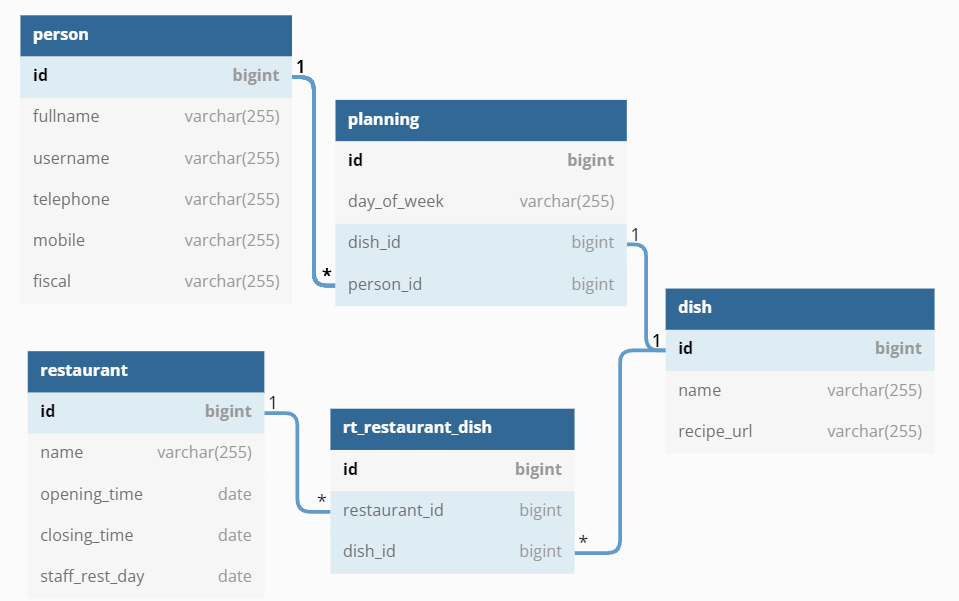
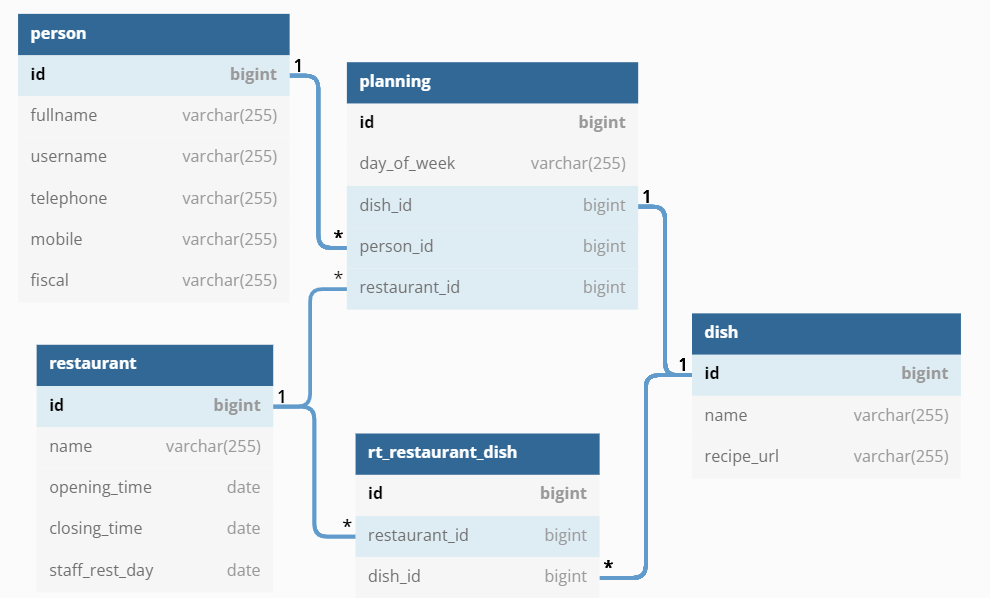
update of README.md

diff --git a/README.md b/README.md
@@ -17,5 +17,76 @@ http://localhost:8088/
 **Note:** It will be shared a dump of the database on mysql folder, on that dump you can create a dump of the database if you want to, and it will be loaded when the DB is loaded.
 
 ## Database schema plan
+Following relationships were implemented:
+* Person - one to many - Planning
+* Restaurant - one to many - Planning
+* Planning - one to one - Dish
+* Restaurant - many to many - Dish
 
-![img_2.png](database_schema.png)
+![img.png](database_schema.png)
+
+## Architecture
+It was organized a service-oriented architecture as can be seen below
+![img.png](img.png)
+
+## REST APIs
+* Dish Entity
+
+`add a Dish entity to repository`
+http://localhost:8080/api/v1/dishes/add (DishDTO body) 
+
+`remove a Dish entity from repository`
+http://localhost:8080/api/v1/dishes/remove/{dishId}
+
+`update a Dish entity from repository`
+http://localhost:8080/api/v1/dishes/update/{dishId} (DishDTO body)
+
+* Person Entity
+
+`add a Person entity to repository`
+http://localhost:8080/api/v1/persons/add (PersonDTO body)
+
+`remove a Person entity from repository`
+http://localhost:8080/api/v1/persons/remove/{personId}
+
+`update a Person entity from repository`
+http://localhost:8080/api/v1/persons/update/{personId} (PersonDTO body) 
+
+* Restaurant Entity
+
+`add a Restaurant entity to repository:`
+http://localhost:8080/api/v1/restaurants/add (restaurantDTO body)
+
+`remove a Restaurant entity from repository`
+http://localhost:8080/api/v1/restaurants/remove/{restaurantId}
+
+`update a Restaurant entity from repository`
+http://localhost:8080/api/v1/restaurants/update/{restaurantId} (DishDTO body)
+
+* Planning Entity
+
+`create a planning by associating Dish, Person, Restaurant and DayOfWeek`
+http://localhost:8080/api/v1/plannings/associate (AssociateForm body)
+
+`remove an existing Planning (previous association)`
+http://localhost:8080/api/v1/plannings/disassociate (AssociateForm body)
+
+`get a List of Persons in a specific Restaurant and DayOfWeek`
+http://localhost:8080/api/v1/plannings/getPersonList/{restaurantId}/{dayOfWeek}/restaurant
+
+`get a List of Persons with a specific Dish and DayOfWeek`
+http://localhost:8080/api/v1/plannings/getPersonList/{dishId}/{dayOfWeek}/dish
+
+`get a List of Persons that have no Dish in a DayOfWeek`
+http://localhost:8080/api/v1/plannings/getPersonList/{dayOfWeek}/no_dish
+
+## Testing
+* There are Unit Tests for each method
+* Postman collection for testing:
+>https://www.postman.com/jucron/workspace/peoplemeals-endpoints-test-joo-renault/overview
+
+## Work yet to be implemented 
+* Documentation
+* Integration tests
+* Queries for repository use (reducing code amount - streams)
+* Others (please suggest)
